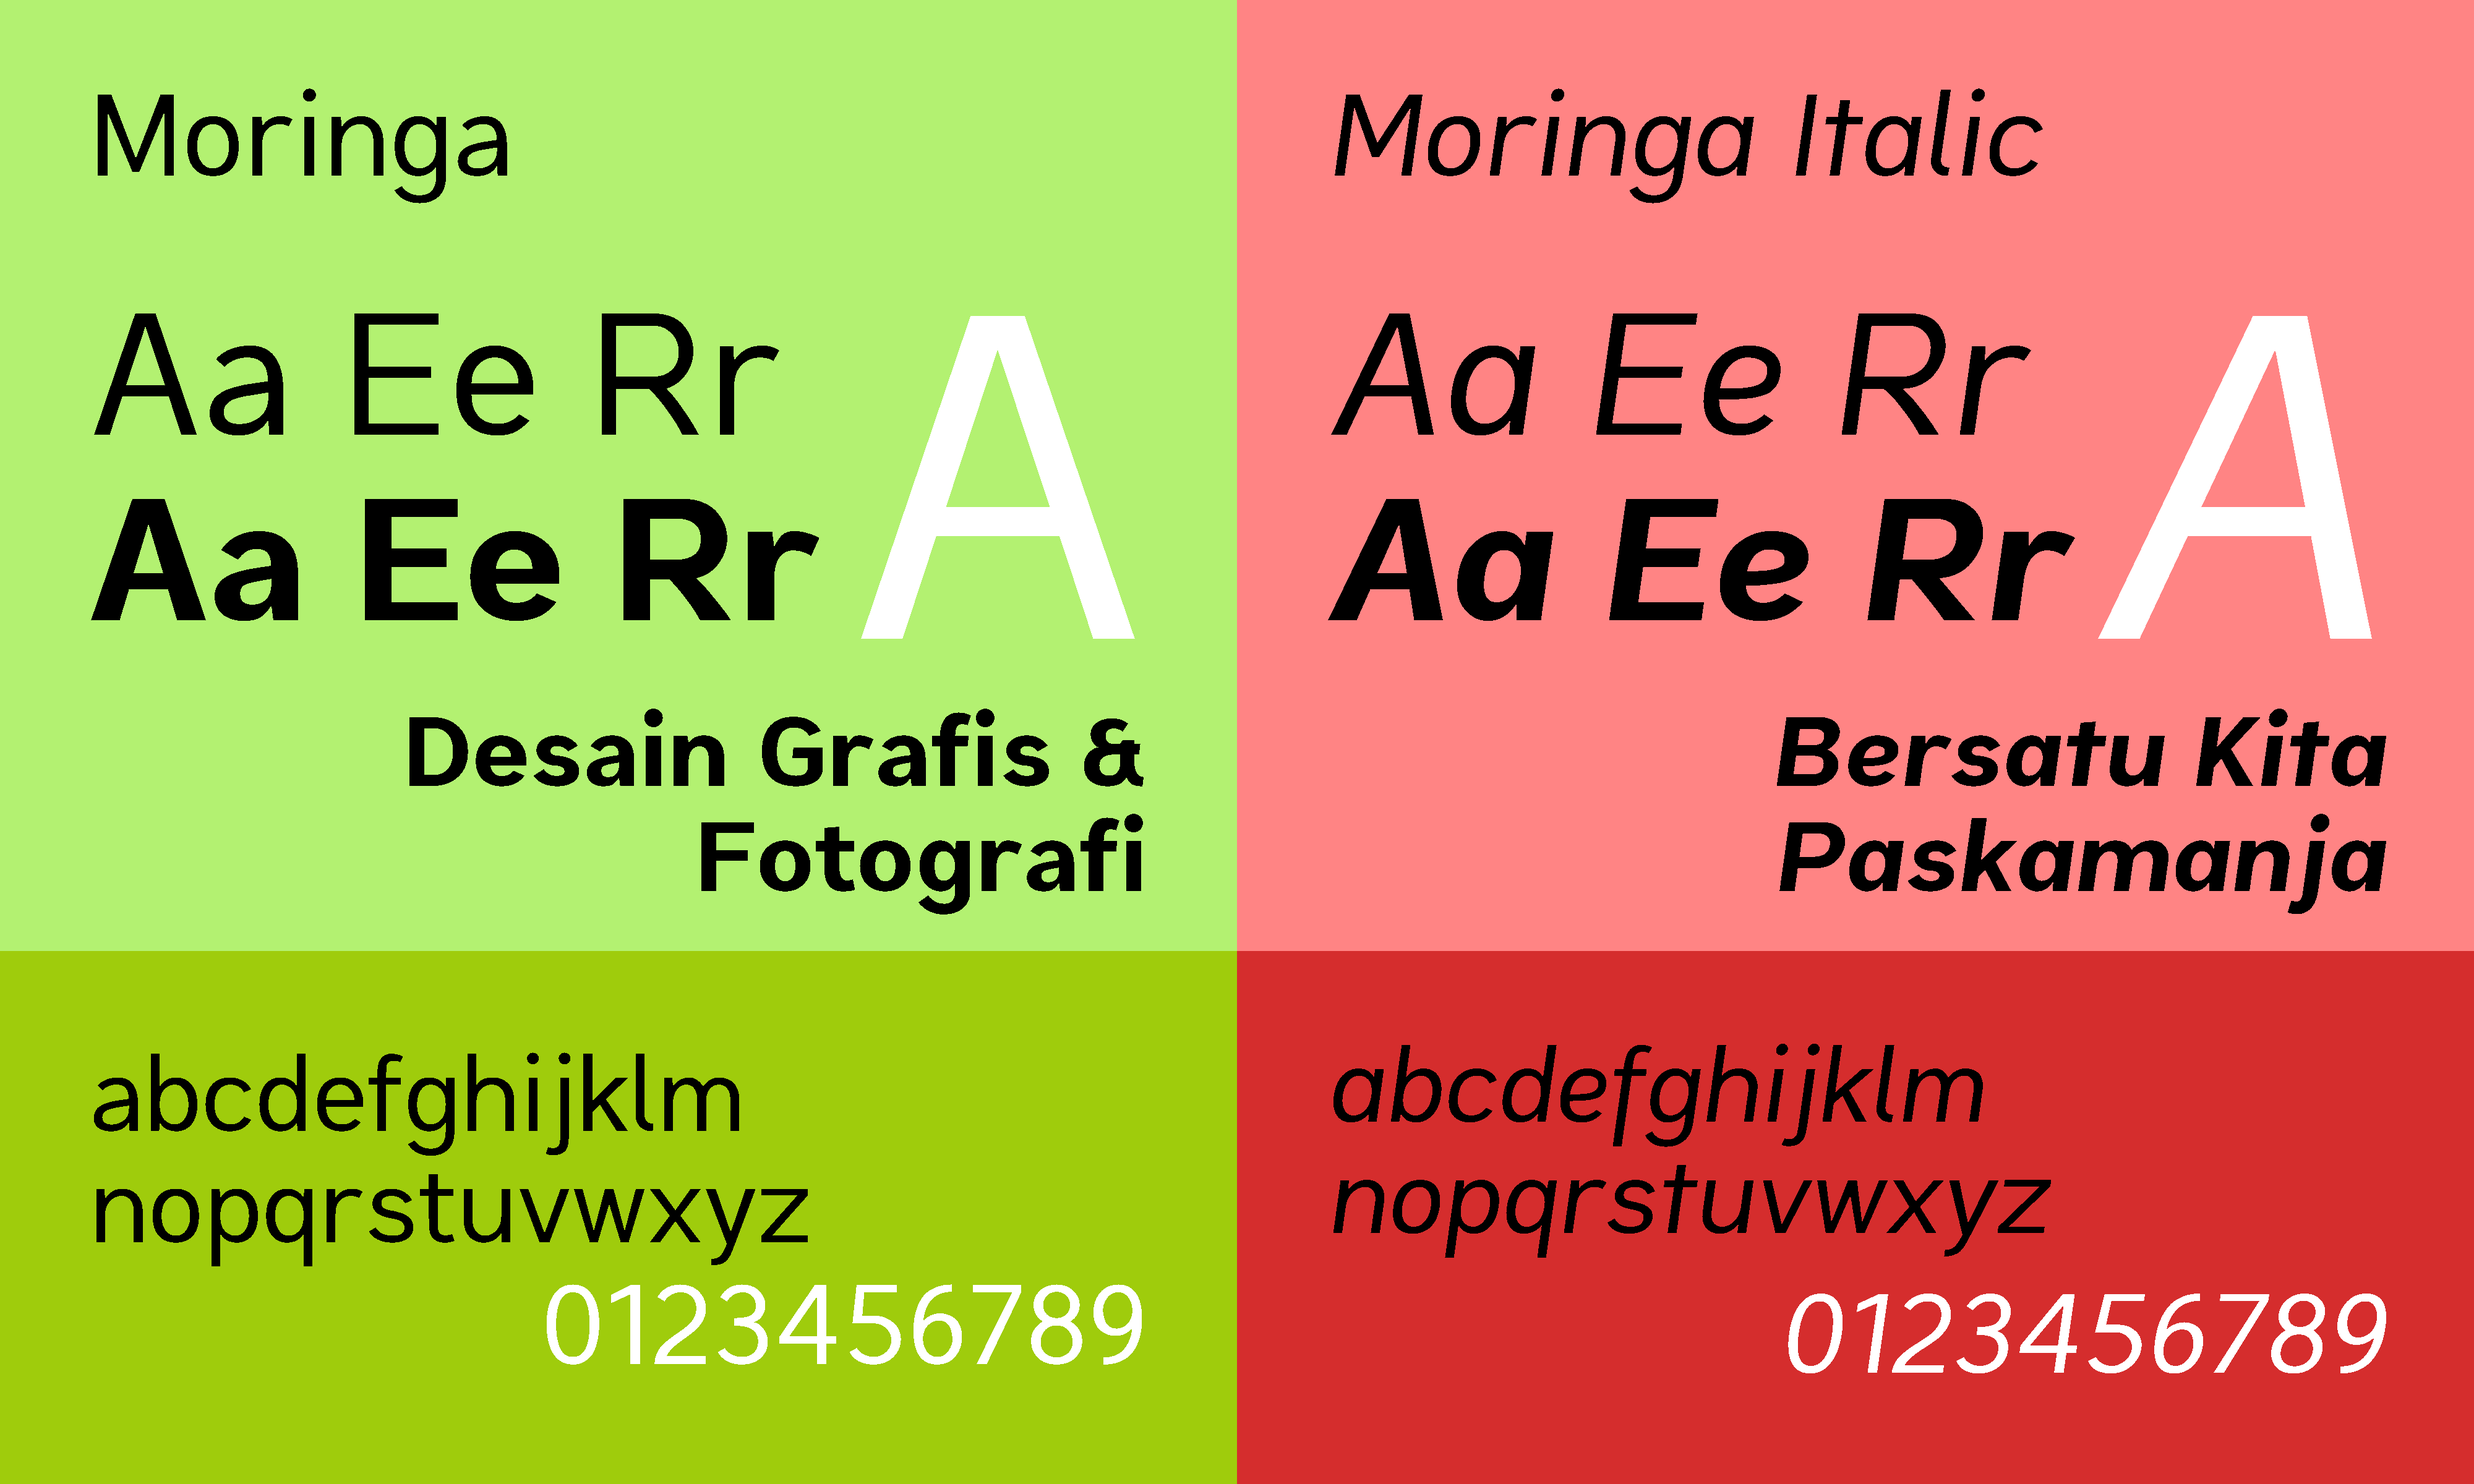
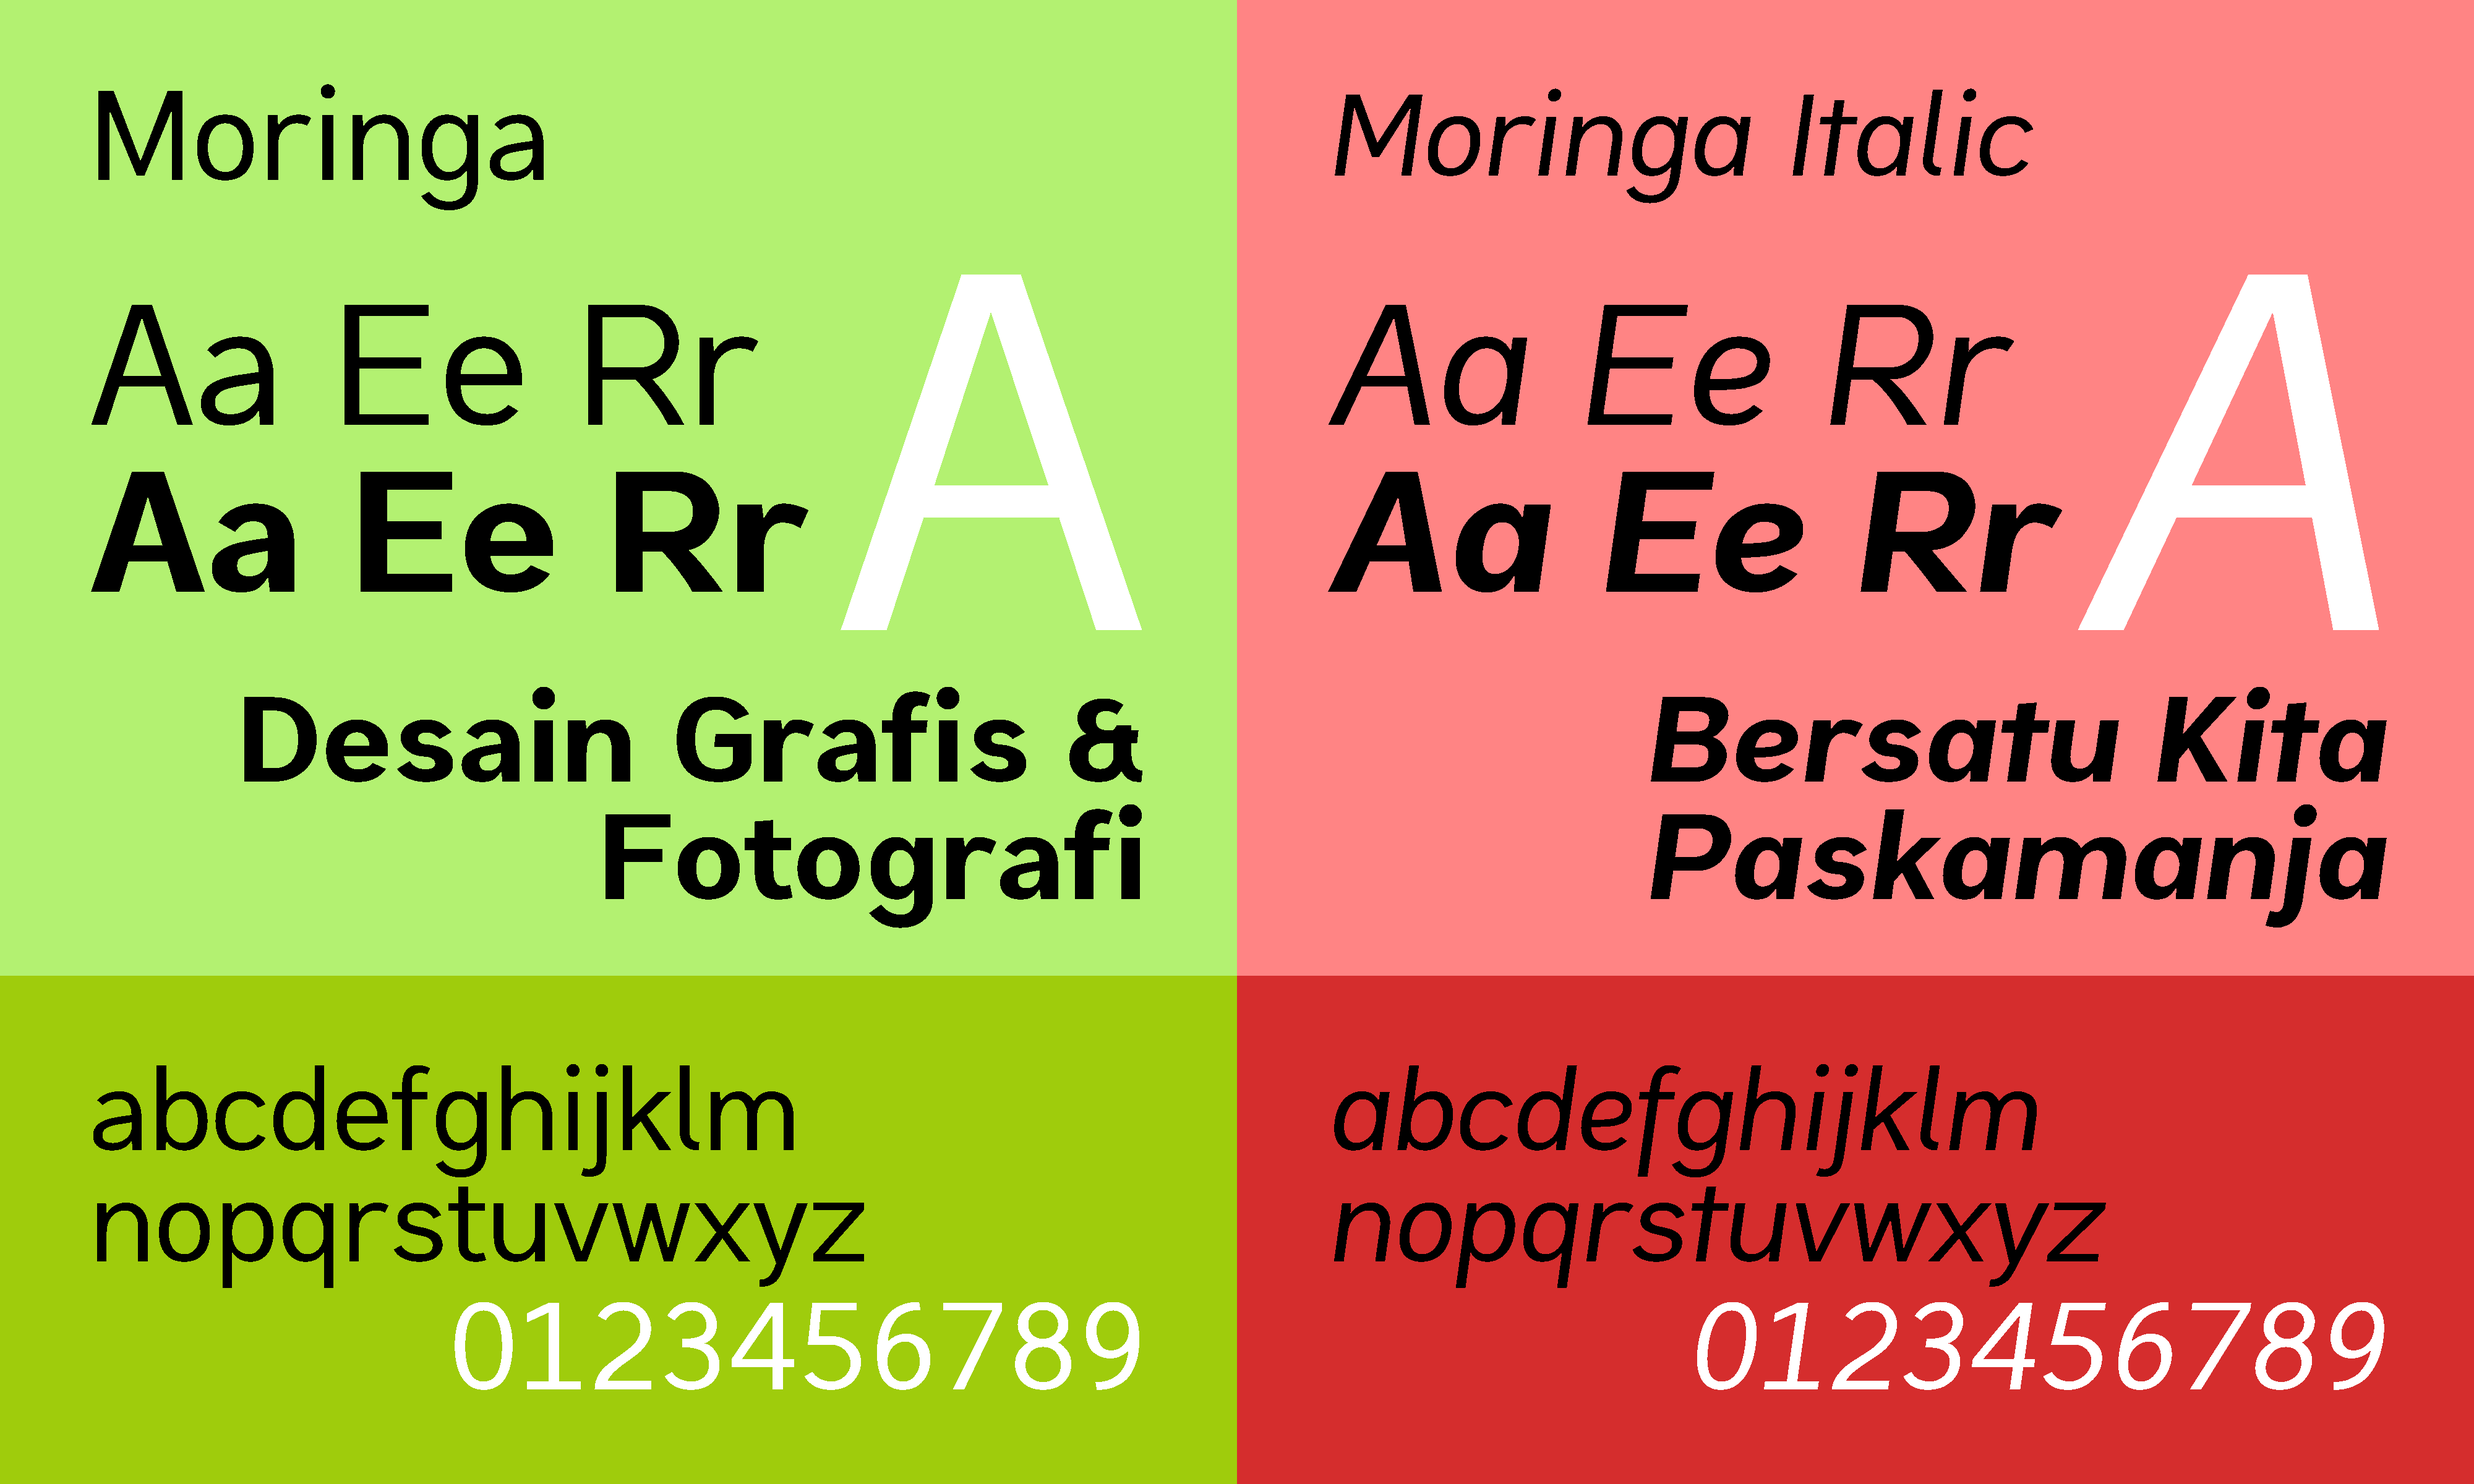
Ubah README dan gambar spesimen

diff --git a/README.md b/README.md
@@ -1,4 +1,4 @@
-<div style="font-family: Moringa, sans-serif; font-size: 1.10em">
+<div style="font-family: Moringa, sans-serif">
 
 <center>
 
@@ -20,15 +20,15 @@ Moringa adalah nama lain dari tanaman sayur kelor. Kelor adalah salah satu ciri 
 
 ## Download dan Gunakan Font Ini! <small>dalam desain anda</small>
 
-[Klik di sini](https://gitlab.com/kak_hilhilll/moringa-font/-/jobs/14575480786/artifacts/download?file_type=archive) untuk mengunduh dari Gitlab. Tanggal pembuatan: 28 Mei 2026
+[Klik di sini](https://gitlab.com/kak_hilhilll/moringa-font/-/jobs/14582044896/artifacts/download?file_type=archive) untuk mengunduh dari Gitlab. Tanggal pembuatan: 28 Mei 2026
 
 ## Kekurangan *Font* Ini
 
-* *Kerning* untuk menyesuaikan jarak huruf ke huruf (seperti antara A dan V) masih belum sempurna
+* *Kerning* untuk menyesuaikan jarak huruf ke huruf (seperti antara A dan V) mungkin terdapat beberapa kesalahan
 * Bahasa yang dapat digunakan dengan *font* ini terbatas (menargetkan: set karakter Eropa Barat)
 * Bentuk beberapa karakter mungkin kurang pas karena penggunaan *hinting* otomatis
 
-Jangan segan-segan untuk membuka isu di repositori ini jika terdapat masukan, saran, dan kritik tentang *font* ini di *Plan* \> *Issue boards*.
+Jangan segan-segan untuk membuka isu di repositori ini jika terdapat masukan, saran, dan kritik tentang *font* ini di *Plan* \> *Issue boards* atau di *Issues*.
 
 ## Lisensi *Font* Ini
 
